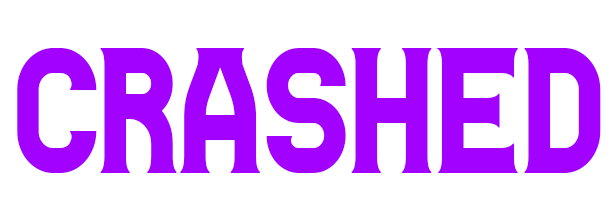
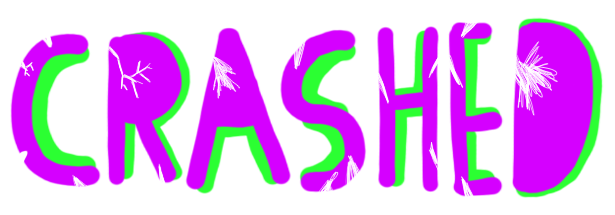
Added lose screen

diff --git a/build-Sloshed-Desktop_Qt_6_2_4_MinGW_64_bit-Debug/ui_mainwindow.h b/build-Sloshed-Desktop_Qt_6_2_4_MinGW_64_bit-Debug/ui_mainwindow.h
@@ -50,6 +50,9 @@ public:
     QProgressBar *hydrationBar;
     QLabel *levelLabel;
     QLabel *hydrateBarLogo;
+    QWidget *LoseScreen;
+    QLabel *intoxLabel;
+    QPushButton *resetButton;
     QMenuBar *menubar;
     QStatusBar *statusbar;
 
@@ -170,10 +173,22 @@ public:
         levelLabel->raise();
         hydrationBar->raise();
         hydrateBarLogo->raise();
+        LoseScreen = new QWidget();
+        LoseScreen->setObjectName(QString::fromUtf8("LoseScreen"));
+        LoseScreen->setStyleSheet(QString::fromUtf8("background-image: url(:/GameImages/Images/End.png)"));
+        intoxLabel = new QLabel(LoseScreen);
+        intoxLabel->setObjectName(QString::fromUtf8("intoxLabel"));
+        intoxLabel->setGeometry(QRect(90, 170, 621, 221));
+        intoxLabel->setStyleSheet(QString::fromUtf8("background-image: url(:/GameImages/Images/Intoxicated.png)"));
+        resetButton = new QPushButton(LoseScreen);
+        resetButton->setObjectName(QString::fromUtf8("resetButton"));
+        resetButton->setGeometry(QRect(260, 430, 275, 125));
+        resetButton->setStyleSheet(QString::fromUtf8("image: url(:/GameImages/Images/Reset.png)"));
+        stackWindow->addWidget(LoseScreen);
         MainWindow->setCentralWidget(centralwidget);
         menubar = new QMenuBar(MainWindow);
         menubar->setObjectName(QString::fromUtf8("menubar"));
-        menubar->setGeometry(QRect(0, 0, 800, 19));
+        menubar->setGeometry(QRect(0, 0, 800, 17));
         MainWindow->setMenuBar(menubar);
         statusbar = new QStatusBar(MainWindow);
         statusbar->setObjectName(QString::fromUtf8("statusbar"));
@@ -181,7 +196,7 @@ public:
 
         retranslateUi(MainWindow);
 
-        stackWindow->setCurrentIndex(0);
+        stackWindow->setCurrentIndex(4);
 
 
         QMetaObject::connectSlotsByName(MainWindow);
@@ -201,6 +216,8 @@ public:
         label->setText(QString());
         levelLabel->setText(QCoreApplication::translate("MainWindow", "Level 1", nullptr));
         hydrateBarLogo->setText(QString());
+        intoxLabel->setText(QString());
+        resetButton->setText(QString());
     } // retranslateUi
 
 };

diff --git a/Sloshed/mainwindow.cpp b/Sloshed/mainwindow.cpp
@@ -110,6 +110,11 @@ void MainWindow::CollideScreen(){
     ui->stackWindow->setCurrentIndex(1);
 }
 
+void MainWindow::LoseScreen() {
+    ui->gameplayScreen->stopGame();
+    ui->stackWindow->setCurrentIndex(4);
+}
+
 void MainWindow::on_restartButton_clicked(){
 
     //probably have to reset all player movement
@@ -148,7 +153,7 @@ void MainWindow::receiveHydrationTimer() {
     int currVal = ui->hydrationBar->value();
 
     if (currVal <= 0) {
-        CollideScreen();
+        LoseScreen();
       // Put a screen to a blurry game screen that has a label of loss and a button to restart
     }
 
@@ -183,6 +188,7 @@ void MainWindow::changeBarToPurple() {
  */
 void MainWindow::changeBarToBlue() {
     if (isPurple) {
+        blurScreen(0);
         isPurple = false;
         ui->hydrationBar->setStyleSheet("QProgressBar::chunk {background: r rgb(30, 169, 255)}");
     }
@@ -264,5 +270,11 @@ void MainWindow::on_answerButton3_clicked()
 void MainWindow::on_answerButton4_clicked()
 {
      //send button 4 clicked to triviascreen
+}
+
+
+void MainWindow::on_resetButton_clicked()
+{
+    startGame();
 }
 

diff --git a/Sloshed/mainwindow.h b/Sloshed/mainwindow.h
@@ -33,6 +33,7 @@ public:
     void PauseScreen();
     void CollideScreen();
     void CollideScreenDelay();
+    void LoseScreen();
     static int const WIDTH = 800;
     static int const HEIGHT = 800;
 
@@ -54,6 +55,8 @@ private slots:
     void on_answerButton3_clicked();
 
     void on_answerButton4_clicked();
+
+    void on_resetButton_clicked();
 
 private:
     Ui::MainWindow *ui;
